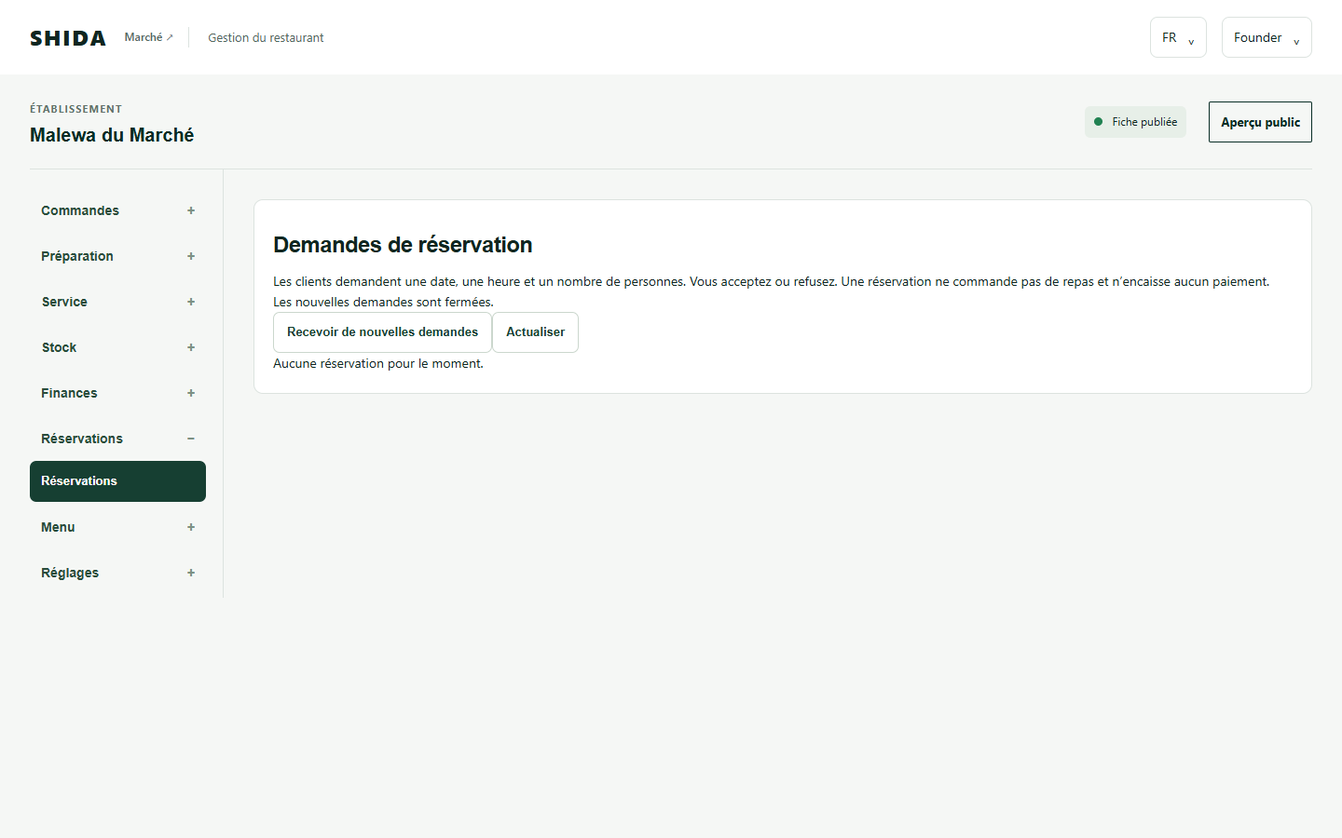
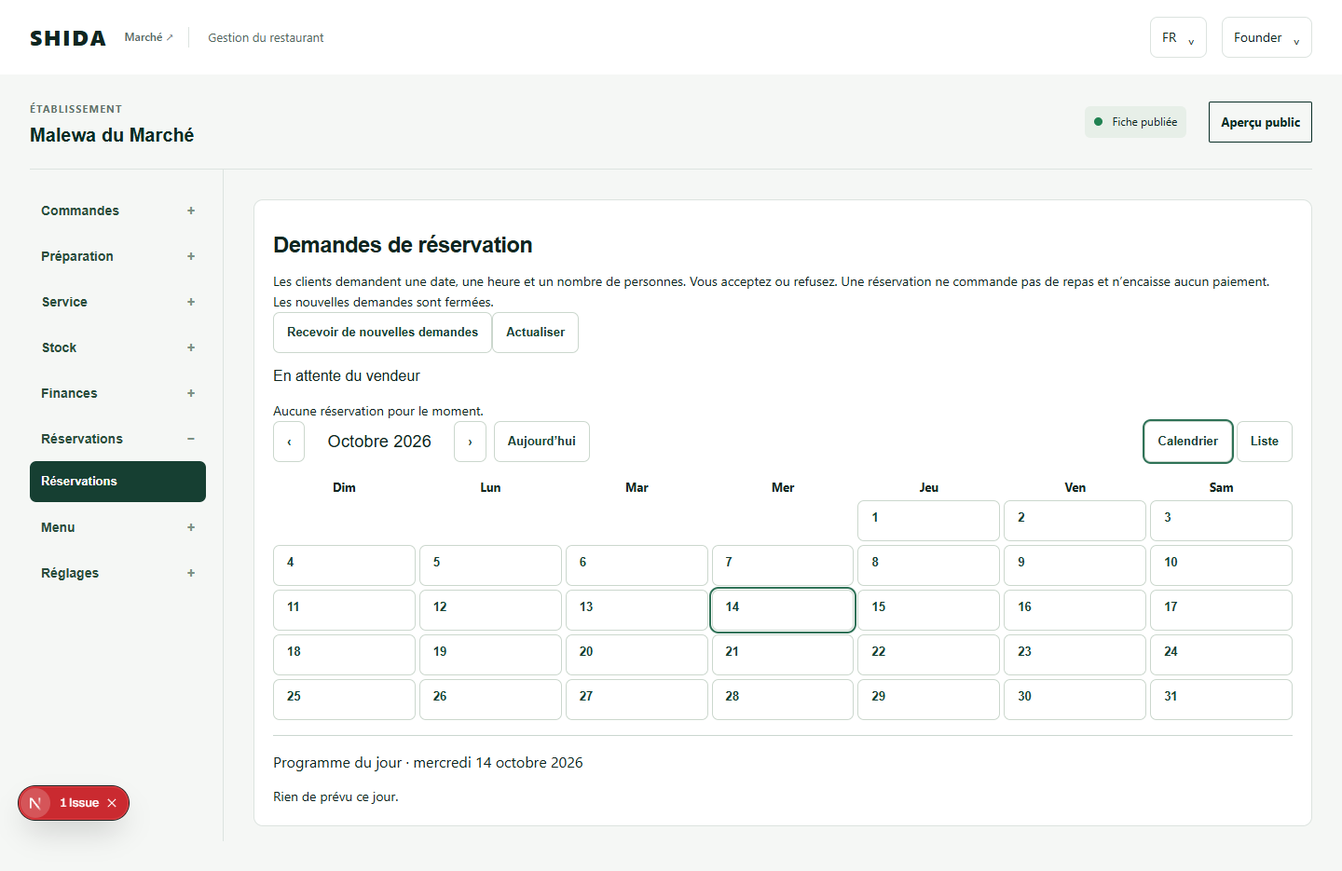
Add Restaurant calendar and improve customer date selection

diff --git a/app/components/shida/restaurant-customer-reservations.tsx b/app/components/shida/restaurant-customer-reservations.tsx
@@ -4,12 +4,17 @@ import { DashboardApiError, request } from "../../lib/restaurant-seller-browser"
 import { reservationCopy, type Reservation, type ReservationLocale } from "../../lib/restaurant-reservation-copy";
 import { restorePersonalSession, PERSONAL_SESSION_EVENT, type PersonalSession } from "../../lib/personal-session-browser";
 import { PersonalWhatsAppLogin } from "./personal-whatsapp-login";
+import {ShidaCalendar} from './shida-calendar';
+import {localCandidates} from './restaurant-local-time';
+import {reservationDateCopy} from '../../lib/restaurant-reservation-calendar-copy';
+import {localDate} from '../../lib/shida-calendar';
 import "./restaurant-checkout.css";
 
 export function RestaurantCustomerReservations({locale,establishmentRef,establishmentName,timezoneName,available}:{locale:ReservationLocale;establishmentRef?:string;establishmentName?:string;timezoneName?:string;available?:boolean}) {
   const t=reservationCopy[locale];
+  const d=reservationDateCopy[locale];
   const [session,setSession]=useState<PersonalSession|null>(null),[checked,setChecked]=useState(false),[items,setItems]=useState<Reservation[]>([]);
-  const [date,setDate]=useState(""),[size,setSize]=useState(2),[busy,setBusy]=useState(false),[message,setMessage]=useState("");
+  const [date,setDate]=useState(""),[time,setTime]=useState(""),[occurrence,setOccurrence]=useState(""),[month,setMonth]=useState(()=>new Date().toISOString().slice(0,7)),[size,setSize]=useState(2),[busy,setBusy]=useState(false),[message,setMessage]=useState("");
   const [page,setPage]=useState(1);
   const binding=useRef<string|null>(null),key=useRef('');
   const loadSession=useCallback(async()=>{try{const value=await restorePersonalSession();if(binding.current!==value.binding)setItems([]);binding.current=value.binding;setSession(value);}catch{binding.current=null;setItems([]);setSession(null);}finally{setChecked(true);}},[]);
@@ -17,10 +22,13 @@ export function RestaurantCustomerReservations({locale,establishmentRef,establis
   const load=useCallback(async()=>{if(!session)return;try{const result=await request(`personal/restaurant-reservations?page=${page}&page_size=20`,{},session.binding) as {items:Reservation[]};if(binding.current===session.binding)setItems(result.items);}catch{if(binding.current===session.binding)setMessage(t.retry);}},[session,t.retry,page]);
   useEffect(()=>{queueMicrotask(()=>void load());},[load]);
   const localTime=(item:Reservation)=>new Intl.DateTimeFormat(locale,{timeZone:item.timezone_name,dateStyle:'medium',timeStyle:'short'}).format(new Date(item.starts_at));
-  async function submit(event:FormEvent){event.preventDefault();if(!session||!establishmentRef||!available||busy)return;setBusy(true);setMessage("");try{
+  const candidates=date&&time&&timezoneName?localCandidates(`${date}T${time}`,timezoneName):[];
+  const chosen=candidates.length===1?candidates[0]:candidates.includes(occurrence)?occurrence:'';
+  const today=timezoneName?localDate(new Date().toISOString(),timezoneName):new Date().toISOString().slice(0,10);
+  async function submit(event:FormEvent){event.preventDefault();if(!session||!establishmentRef||!available||busy||!chosen)return;setBusy(true);setMessage("");try{
     key.current ||= crypto.randomUUID().replaceAll('-','');
-    await request(`personal/restaurant-reservations/establishments/${establishmentRef}`,{method:'POST',body:JSON.stringify({starts_at:date,party_size:size,operation_key:key.current})},session.binding);
-    key.current=crypto.randomUUID().replaceAll('-','');setDate("");setMessage(t.saved);await load();
+    await request(`personal/restaurant-reservations/establishments/${establishmentRef}`,{method:'POST',body:JSON.stringify({starts_at:chosen,party_size:size,operation_key:key.current})},session.binding);
+    key.current=crypto.randomUUID().replaceAll('-','');setDate("");setTime("");setOccurrence("");setMessage(t.saved);await load();
   }catch(error){setMessage(error instanceof DashboardApiError&&error.status===422?t.closed:t.retry);await load();}finally{setBusy(false);}}
   async function cancel(item:Reservation){if(!session||busy)return;setBusy(true);setMessage("");try{
     await request(`personal/restaurant-reservations/${item.reservation_ref}/cancel`,{method:'POST',body:JSON.stringify({expected_revision:item.revision,operation_key:crypto.randomUUID().replaceAll('-','')})},session.binding);
@@ -28,7 +36,7 @@ export function RestaurantCustomerReservations({locale,establishmentRef,establis
   }catch{setMessage(t.retry);await load();}finally{setBusy(false);}}
   return <main className="restaurant-public rst-checkout" lang={locale}><div className="container"><h1>{establishmentRef?`${establishmentName||t.reserve} · ${t.reserve}`:t.mine}</h1>
     {!checked?<p>{t.retry}</p>:!session?<><p>{t.login}</p><PersonalWhatsAppLogin locale={locale} onAuthenticated={()=>void loadSession()}/></>:<>
-      {establishmentRef&&<section><h2>{t.reserve}</h2>{available?<form onSubmit={event=>void submit(event)}><p>{t.noOrder}</p><p>{t.noCapacity}</p><label>{t.date} ({timezoneName})<input type="datetime-local" required value={date} onChange={event=>{setDate(event.target.value);key.current=crypto.randomUUID().replaceAll('-','');}}/></label><label>{t.size}<input type="number" min="1" max="30" required value={size} onChange={event=>{setSize(Number(event.target.value));key.current=crypto.randomUUID().replaceAll('-','');}}/></label><button type="submit" disabled={busy||!date}>{t.send}</button></form>:<p>{t.closed}</p>}</section>}
+      {establishmentRef&&<section><h2>{t.reserve}</h2>{available?<form onSubmit={event=>void submit(event)}><p>{d.guidance}</p><p>{t.noOrder}</p><p>{t.noCapacity}</p><ShidaCalendar locale={locale} timeZone={timezoneName||'UTC'} month={month} selected={date||today} events={[]} onMonthChange={setMonth} onSelect={value=>{setDate(value);setOccurrence('');key.current=crypto.randomUUID().replaceAll('-','');}} dateOnly/><label>{t.date} ({timezoneName})<input type="date" required value={date} onChange={event=>{setDate(event.target.value);setMonth(event.target.value.slice(0,7));setOccurrence('');key.current=crypto.randomUUID().replaceAll('-','');}}/></label><label>{d.time}<input type="time" required value={time} onChange={event=>{setTime(event.target.value);setOccurrence('');key.current=crypto.randomUUID().replaceAll('-','');}}/></label>{date&&time&&candidates.length===0&&<p role="alert">{d.invalid}</p>}{candidates.length>1&&<label>{d.ambiguous}<select required value={occurrence} onChange={event=>setOccurrence(event.target.value)}><option value=""></option>{candidates.map((candidate,index)=><option key={candidate} value={candidate}>{index===0?d.first:d.second}</option>)}</select></label>}<label>{t.size}<input type="number" min="1" max="30" required value={size} onChange={event=>{setSize(Number(event.target.value));key.current=crypto.randomUUID().replaceAll('-','');}}/></label><button type="submit" disabled={busy||!chosen}>{t.send}</button></form>:<p>{t.closed}</p>}</section>}
       <section><h2>{t.mine}</h2><button type="button" disabled={busy} onClick={()=>void load()}>{t.refresh}</button>{items.length?items.map(item=><article key={item.reservation_ref} className="rst-card"><h3>{item.establishment_name}</h3><p>{localTime(item)} · {item.timezone_name} · {item.party_size} {t.size}</p><p>{t[item.state]}</p>{['pending','accepted'].includes(item.state)&&<button type="button" disabled={busy} onClick={()=>void cancel(item)}>{t.cancel}</button>}</article>):<p>{t.noRows}</p>}<div className="rst-actions"><button type="button" disabled={busy||page<=1} onClick={()=>setPage(page-1)}>{t.previous}</button><span>{page}</span><button type="button" disabled={busy||items.length<20} onClick={()=>setPage(page+1)}>{t.next}</button></div></section>
     </>}{message&&<p role="status">{message}</p>}
   </div></main>;

diff --git a/app/components/shida/restaurant-reservation-calendar-seller.tsx b/app/components/shida/restaurant-reservation-calendar-seller.tsx
@@ -1,0 +1,48 @@
+"use client";
+import {useCallback,useEffect,useRef,useState} from 'react';
+import {request} from '../../lib/restaurant-seller-browser';
+import {reservationCopy,type Reservation,type ReservationLocale} from '../../lib/restaurant-reservation-copy';
+import {workflowText} from '../../lib/restaurant-workflow-copy';
+import {monthBounds,restaurantEvent} from '../../lib/shida-calendar';
+import {ShidaCalendar} from './shida-calendar';
+
+type Setting={enabled:boolean;revision:number;available:boolean};
+type Page={items:Reservation[];has_more:boolean;timezone_name:string};
+export function RestaurantReservationCalendarSeller({path,binding,locale}:{path:string;binding:string;locale:ReservationLocale}){
+  const t=reservationCopy[locale];
+  const [setting,setSetting]=useState<Setting|null>(null),[items,setItems]=useState<Reservation[]>([]),[pending,setPending]=useState<Reservation[]>([]);
+  const [busy,setBusy]=useState(false),[error,setError]=useState(''),[detail,setDetail]=useState<Reservation|null>(null);
+  const [zone,setZone]=useState('UTC'),[month,setMonth]=useState(()=>new Date().toISOString().slice(0,7));
+  const [selected,setSelected]=useState(()=>new Date().toISOString().slice(0,10));
+  const [page,setPage]=useState(1),[pendingPage,setPendingPage]=useState(1),[more,setMore]=useState(false),[morePending,setMorePending]=useState(false);
+  const [now,setNow]=useState(0);
+  const generation=useRef(0);
+  const load=useCallback(async()=>{const ticket=++generation.current;try{
+    const {from,to}=monthBounds(month);
+    const [current,listing,queue]=await Promise.all([
+      request(`${path}/reservations/setting`,{},binding) as Promise<Setting>,
+      request(`${path}/reservations/calendar?date_from=${from}&date_to=${to}&page=${page}&page_size=100`,{},binding) as Promise<Page>,
+      request(`${path}/reservations/pending?page=${pendingPage}&page_size=50`,{},binding) as Promise<Page>]);
+    if(ticket!==generation.current)return;
+    setSetting(current);setItems(previous=>page===1?listing.items:[...new Map([...previous,...listing.items].map(row=>[row.reservation_ref,row])).values()]);setPending(queue.items);setMore(listing.has_more);setMorePending(queue.has_more);
+    setZone(listing.timezone_name);setError('');
+  }catch{if(ticket===generation.current){setItems([]);setPending([]);setDetail(null);setSetting(null);setError(t.retry);}}},[path,binding,t.retry,month,page,pendingPage]);
+  useEffect(()=>{const currentGeneration=generation;queueMicrotask(()=>void load());const focus=()=>void load();window.addEventListener('focus',focus);const clock=window.setInterval(()=>setNow(Date.now()),60000);queueMicrotask(()=>setNow(Date.now()));return()=>{currentGeneration.current++;window.clearInterval(clock);window.removeEventListener('focus',focus);};},[load]);
+  async function open(ref:string){setBusy(true);setError('');try{const row=await request(`${path}/reservations/${ref}`,{},binding) as Reservation;setDetail(row);}catch{setDetail(null);setError(t.retry);await load();}finally{setBusy(false);}}
+  async function configure(){if(!setting||busy)return;setBusy(true);try{await request(`${path}/reservations/setting`,{method:'PUT',body:JSON.stringify({enabled:!setting.enabled,expected_revision:setting.revision,operation_key:crypto.randomUUID().replaceAll('-','')})},binding);await load();}catch{setError(t.retry);await load();}finally{setBusy(false);}}
+  async function act(row:Reservation,action:'accept'|'reject'|'cancel'|'arrive'|'complete'){if(busy)return;setBusy(true);try{await request(`${path}/reservations/${row.reservation_ref}/${action}`,{method:'POST',body:JSON.stringify({expected_revision:row.revision,operation_key:crypto.randomUUID().replaceAll('-','')})},binding);setPage(1);await load();await open(row.reservation_ref);}catch{setError(t.retry);setPage(1);await load();await open(row.reservation_ref);}finally{setBusy(false);}}
+  const events=items.map(row=>restaurantEvent(row,t[row.state],t.size));
+  const time=(row:Reservation)=>new Intl.DateTimeFormat(locale,{timeZone:row.timezone_name,dateStyle:'medium',timeStyle:'short'}).format(new Date(row.starts_at));
+  return <section className="rst-card" lang={locale}><h2>{t.requests}</h2><p>{workflowText(locale,'reservationsIntro')}</p>
+    {setting&&<><p role="status">{workflowText(locale,setting.enabled?'requestsOn':'requestsOff')}</p>{!setting.available&&<p>{workflowText(locale,'reservationPrerequisites')}</p>}<button type="button" disabled={busy||!setting.enabled&&!setting.available} onClick={()=>void configure()}>{workflowText(locale,setting.enabled?'stopRequests':'receiveRequests')}</button></>}
+    <button type="button" disabled={busy} onClick={()=>void load()}>{t.refresh}</button>{error&&<p role="alert">{error}</p>}
+    <section aria-label={t.pending}><h3>{t.pending}</h3>{pending.length?<div className="rst-actions">{pending.map(row=><button type="button" key={row.reservation_ref} onClick={()=>void open(row.reservation_ref)}>{time(row)} · {row.party_size} {t.size} · {t.pending}</button>)}</div>:<p>{t.noRows}</p>}{morePending&&<button type="button" onClick={()=>setPendingPage(value=>value+1)}>{t.next}</button>}{pendingPage>1&&<button type="button" onClick={()=>setPendingPage(value=>value-1)}>{t.previous}</button>}</section>
+    <ShidaCalendar locale={locale} timeZone={zone} month={month} selected={selected} events={events} onMonthChange={value=>{setMonth(value);setPage(1);setItems([]);setSelected(`${value}-01`);setDetail(null);}} onSelect={setSelected} onOpen={event=>void open(event.destination.reference)} hasMore={more} onMore={()=>setPage(value=>value+1)}/>
+    {detail&&<article className="rst-card" aria-label={t.requests}><h3>{time(detail)} · {detail.timezone_name}</h3><p>{detail.party_size} {t.size} · {t[detail.state]}</p><p>{t.overlap}: {detail.overlapping_requests??0}</p><div className="rst-actions">
+      {detail.state==='pending'&&now<Date.parse(detail.response_deadline)&&<><button type="button" disabled={busy} onClick={()=>void act(detail,'accept')}>{workflowText(locale,'acceptRequest')}</button><button type="button" disabled={busy} onClick={()=>void act(detail,'reject')}>{t.reject}</button></>}
+      {['pending','accepted'].includes(detail.state)&&<button type="button" disabled={busy} onClick={()=>void act(detail,'cancel')}>{t.cancel}</button>}
+      {detail.state==='accepted'&&now>=Date.parse(detail.starts_at)-1800000&&<button type="button" disabled={busy} onClick={()=>void act(detail,'arrive')}>{t.arrive}</button>}
+      {detail.state==='arrived'&&now>=Date.parse(detail.starts_at)-1800000&&<button type="button" disabled={busy} onClick={()=>void act(detail,'complete')}>{t.complete}</button>}
+    </div></article>}
+  </section>;
+}

diff --git a/tests/browser/restaurant-reservation-actual.browser.ts b/tests/browser/restaurant-reservation-actual.browser.ts
@@ -3,7 +3,7 @@ import {test,expect,request} from '@playwright/test';
 test.skip(process.env.RESTAURANT_RESERVATION_BACKEND !== '1', 'Requires isolated real Backend reservation fixture');
 
 test('real Backend: customer, Personal seller and Organization seller reservations',async({browser})=>{
-  test.setTimeout(120000);
+  test.setTimeout(90000);
   const api=await request.newContext({baseURL:'https://127.0.0.1:3443',ignoreHTTPSErrors:true});
   const seed=await api.post('/__reservation/seed');
   expect(seed.ok(),await seed.text()).toBeTruthy();
@@ -16,12 +16,16 @@ test('real Backend: customer, Personal seller and Organization seller reservatio
   const customer=await browser.newContext({baseURL:'https://localhost:3014',ignoreHTTPSErrors:true});
   await customer.addCookies([{name:'nihiloba_personal_session',value:await session('buyer'),domain:'localhost',path:'/api/shida',httpOnly:true,sameSite:'Lax',secure:true}]);
   const buyer=await customer.newPage();
+  await buyer.setViewportSize({width:390,height:844});
   await buyer.goto(`/shida/restaurants/${data.personal}`);
   await expect(buyer.getByRole('link',{name:'Request a reservation'})).toHaveAttribute('href',new RegExp(`establishment=${data.personal}`));
   await buyer.goto(`/shida/restaurant-reservations?establishment=${data.personal}`);
   await expect(buyer.getByRole('heading',{name:'Request a reservation',exact:true})).toBeVisible();
-  await buyer.getByLabel(/Local date and time/).fill(data.date);
+  await buyer.getByLabel(/Local date and time/).fill(data.date.slice(0,10));
+  await buyer.getByLabel('Requested time').fill(data.date.slice(11));
   await buyer.getByLabel('Guests').fill('3');
+  await buyer.evaluate(()=>window.scrollTo(0,0));
+  await buyer.screenshot({path:'docs/evidence/calendar-customer-390.png',fullPage:true});
   await buyer.getByRole('button',{name:'Send request'}).click();
   await expect(buyer.getByText('Request recorded. The seller must still accept it.')).toBeVisible();
   await expect(buyer.getByText('Awaiting seller response').first()).toBeVisible();
@@ -30,10 +34,12 @@ test('real Backend: customer, Personal seller and Organization seller reservatio
   await personal.addCookies([{name:'nihiloba_personal_session',value:await session('owner'),domain:'localhost',path:'/api/shida',httpOnly:true,sameSite:'Lax',secure:true}]);
   const owner=await personal.newPage();
   await owner.goto('/shida/seller/restaurants');
-  await owner.locator('.rst-grid .rst-card').filter({hasText:data.personal_name}).getByRole('button',{name:'Edit',exact:true}).click();
-  await owner.getByRole('button',{name:'Reservation requests'}).click();
-  await expect(owner.getByRole('button',{name:'Accept',exact:true})).toBeVisible();
-  await owner.getByRole('button',{name:'Accept',exact:true}).click();
+  await expect(owner.locator('.rst-management-identity').getByRole('heading',{name:data.personal_name})).toBeVisible();
+  await owner.locator('.rst-nav-group').filter({hasText:'Reservations'}).locator('summary').click();
+  await owner.getByRole('button',{name:'Reservations',exact:true}).click();
+  await owner.getByRole('region',{name:'Awaiting seller response'}).getByRole('button').first().click();
+  await expect(owner.getByRole('button',{name:'Accept this request'})).toBeVisible();
+  await owner.getByRole('button',{name:'Accept this request'}).click();
   await expect(owner.getByText(/Guests.*Accepted/)).toBeVisible();
   await buyer.getByRole('button',{name:'Refresh'}).click();
   await expect(buyer.getByText('Accepted',{exact:true}).first()).toBeVisible();
@@ -43,7 +49,8 @@ test('real Backend: customer, Personal seller and Organization seller reservatio
   }
 
   await buyer.goto(`/shida/restaurant-reservations?establishment=${data.organization}`);
-  await buyer.getByLabel(/Local date and time/).fill(data.date);
+  await buyer.getByLabel(/Local date and time/).fill(data.date.slice(0,10));
+  await buyer.getByLabel('Requested time').fill(data.date.slice(11));
   await buyer.getByLabel('Guests').fill('4');
   await buyer.getByRole('button',{name:'Send request'}).click();
   await expect(buyer.getByText('Request recorded. The seller must still accept it.')).toBeVisible();
@@ -53,10 +60,12 @@ test('real Backend: customer, Personal seller and Organization seller reservatio
   await business.addInitScript(()=>localStorage.setItem('shida-language','en'));
   const manager=await business.newPage();
   await manager.goto(`/businesses/${data.business}/restaurants`);
-  await manager.locator('.rst-grid .rst-card').filter({hasText:data.organization_name}).getByRole('button',{name:'Edit',exact:true}).click();
-  await manager.getByRole('button',{name:'Reservation requests'}).click();
-  await expect(manager.getByRole('button',{name:'Accept',exact:true})).toBeVisible();
-  await manager.getByRole('button',{name:'Accept',exact:true}).click();
+  await expect(manager.getByRole('heading',{name:data.organization_name})).toBeVisible();
+  await manager.locator('.rst-nav-group').filter({hasText:'Reservations'}).locator('summary').click();
+  await manager.getByRole('button',{name:'Reservations',exact:true}).click();
+  await manager.getByRole('region',{name:'Awaiting seller response'}).getByRole('button').first().click();
+  await expect(manager.getByRole('button',{name:'Accept this request'})).toBeVisible();
+  await manager.getByRole('button',{name:'Accept this request'}).click();
   await expect(manager.getByText(/Guests.*Accepted/)).toBeVisible();
   await buyer.getByRole('button',{name:'Refresh'}).click();
   await expect(buyer.getByText('Accepted',{exact:true}).first()).toBeVisible();

diff --git a/app/components/shida/shida-calendar.tsx b/app/components/shida/shida-calendar.tsx
@@ -1,0 +1,47 @@
+"use client";
+import {useRef, useState, type KeyboardEvent} from 'react';
+import {calendarCopy, localDate, monthBounds, shiftMonth, type CalendarEvent, type CalendarLocale} from '../../lib/shida-calendar';
+import './shida-calendar.css';
+import './shida-calendar-mobile.css';
+
+type Props={locale:CalendarLocale;timeZone:string;month:string;selected:string;events:CalendarEvent[];
+  onMonthChange:(month:string)=>void;onSelect:(date:string)=>void;onOpen?:(event:CalendarEvent)=>void;
+  hasMore?:boolean;onMore?:()=>void;dateOnly?:boolean};
+
+export function ShidaCalendar({locale,timeZone,month,selected,events,onMonthChange,onSelect,onOpen,hasMore,onMore,dateOnly=false}:Props){
+  const t=calendarCopy[locale], [view,setView]=useState<'calendar'|'list'>('calendar');
+  const buttons=useRef<HTMLDivElement>(null);
+  const {from,to}=monthBounds(month), count=Math.round((Date.parse(to+'T00:00:00Z')-Date.parse(from+'T00:00:00Z'))/86400000);
+  const firstDay=new Date(from+'T00:00:00Z').getUTCDay();
+  const today=localDate(new Date().toISOString(),timeZone);
+  const monthTitle=new Intl.DateTimeFormat(locale==='ln'?'fr':locale,{month:'long',year:'numeric',timeZone:'UTC'}).format(new Date(from+'T12:00:00Z'));
+  const dayEvents=(day:string)=>events.filter(event=>localDate(event.startsAt,timeZone)===day);
+  const format=(event:CalendarEvent)=>new Intl.DateTimeFormat(locale==='ln'?'fr':locale,{timeZone:event.timeZone,hour:'2-digit',minute:'2-digit'}).format(new Date(event.startsAt));
+  function choose(day:string){if(day.slice(0,7)!==month)onMonthChange(day.slice(0,7));onSelect(day);}
+  function arrows(event:KeyboardEvent<HTMLButtonElement>,day:string){
+    const movement:{[key:string]:number}={ArrowLeft:-1,ArrowRight:1,ArrowUp:-7,ArrowDown:7};
+    if(!(event.key in movement))return;
+    event.preventDefault();const next=new Date(Date.parse(day+'T12:00:00Z')+movement[event.key]*86400000).toISOString().slice(0,10);
+    choose(next);requestAnimationFrame(()=>buttons.current?.querySelector<HTMLButtonElement>(`[data-day="${next}"]`)?.focus());
+  }
+  function entries(rows:CalendarEvent[]){return rows.map(event=><li key={`${event.marketplace}:${event.reference}`} className={`shida-cal-event shida-cal-${event.tone}`}>
+    <span className="shida-cal-time">{format(event)} <span>{event.timeZone}</span></span>
+    <strong>{event.title}</strong><span className="shida-cal-status">{event.status}</span>
+    {onOpen&&<button type="button" onClick={()=>onOpen(event)}>{t.open}</button>}
+  </li>);}
+  return <section className="shida-calendar" lang={locale} aria-label={t.calendar}>
+    <div className="shida-cal-toolbar"><button type="button" onClick={()=>onMonthChange(shiftMonth(month,-1))} aria-label={t.previous}>‹</button>
+      <h3 aria-live="polite">{monthTitle}</h3><button type="button" onClick={()=>onMonthChange(shiftMonth(month,1))} aria-label={t.next}>›</button>
+      <button type="button" onClick={()=>choose(today)}>{t.today}</button>
+      {!dateOnly&&<div className="shida-cal-view"><button type="button" aria-pressed={view==='calendar'} onClick={()=>setView('calendar')}>{t.calendar}</button><button type="button" aria-pressed={view==='list'} onClick={()=>setView('list')}>{t.list}</button></div>}
+    </div>
+    {view==='calendar'||dateOnly?<div className="shida-cal-grid" ref={buttons} role="group" aria-label={monthTitle}>
+      {t.weekdays.map((label,index)=><span className="shida-cal-weekday" key={index}>{label}</span>)}
+      {Array.from({length:firstDay},(_,index)=><span key={`blank-${index}`} aria-hidden="true"/>)}
+      {Array.from({length:count},(_,index)=>{const day=new Date(Date.parse(from+'T12:00:00Z')+index*86400000).toISOString().slice(0,10), matches=dayEvents(day);
+        return <button type="button" key={day} data-day={day} className="shida-cal-day" aria-pressed={selected===day} aria-label={`${new Intl.DateTimeFormat(locale==='ln'?'fr':locale,{dateStyle:'full',timeZone:'UTC'}).format(new Date(day+'T12:00:00Z'))}${matches.length?`, ${matches.length}`:''}`} onClick={()=>choose(day)} onKeyDown={event=>arrows(event,day)}><span>{index+1}</span>{!dateOnly&&matches.length>0&&<small>{matches.length}<span className="shida-cal-dot"/></small>}</button>})}
+    </div>:<ol className="shida-cal-list">{entries(events.filter(event=>{const day=localDate(event.startsAt,timeZone);return day>=from&&day<to;}).sort((a,b)=>a.startsAt.localeCompare(b.startsAt)))}</ol>}
+    {!dateOnly&&<div className="shida-cal-agenda"><h4>{t.agenda} · {new Intl.DateTimeFormat(locale==='ln'?'fr':locale,{dateStyle:'full',timeZone:'UTC'}).format(new Date(selected+'T12:00:00Z'))}</h4>{dayEvents(selected).length?<ol className="shida-cal-list">{entries(dayEvents(selected).sort((a,b)=>a.startsAt.localeCompare(b.startsAt)))}</ol>:<p>{t.empty}</p>}</div>}
+    {!dateOnly&&hasMore&&onMore&&<button type="button" onClick={onMore}>{t.more}</button>}
+  </section>;
+}

diff --git a/tests/browser/restaurant-workflow.browser.ts b/tests/browser/restaurant-workflow.browser.ts
@@ -2,6 +2,7 @@ import {test,expect,type Page} from '@playwright/test';
 import {managementNavigation} from './restaurant-management-navigation';
 
 const stamp='2026-10-13T08:00:00+00:00';
+const reservation={reservation_ref:'RRS_1',establishment_ref:'RST_WORKFLOW',establishment_name:'Malewa du Marché',state:'pending',revision:1,starts_at:'2030-10-14T18:00:00+01:00',timezone_name:'Africa/Kinshasa',party_size:3,response_deadline:'2030-10-14T12:00:00+01:00',overlapping_requests:0};
 const establishment={public_ref:'RST_WORKFLOW',revision:stamp,status:'active',menu_currency:'CDF',location_confirmed:true,missing_publication_fields:[],actions:['read','edit','menu','hours','preview','links'],profile:{name:'Malewa du Marché',food_business_type:'malewa',city:'Kinshasa',commune:'Limete',timezone_name:'Africa/Kinshasa'}};
 const food=[{public_ref:'FOOD_1',name:'Fufu et pondu',presentation:'fixed_dish',pricing_model:'UNIT_PRICED',currency:'CDF',unit_price:'3000',sale_unit_label:'assiette',availability:'available',visible:true},{public_ref:'DRINK_1',name:'Jus de mangue sans alcool',presentation:'fixed_dish',pricing_model:'UNIT_PRICED',currency:'USD',unit_price:'2.50',sale_unit_label:'verre',availability:'available',visible:true}];
 const order=(ref:string,state:string)=>({order_ref:ref,revision:1,state,entry_source:'customer',fulfillment_method:'pickup',submitted_at:stamp,cancellation_pending:false,order_total:'3000',currency:'CDF',food_preview:{},receipt_terms:null});
@@ -39,6 +40,9 @@ async function seed(page:Page,intake:boolean,empty=false,rich=false){
   if(p.endsWith('/orders')){const states=url.searchParams.getAll('states');const items=empty?[]:states.includes('pending')?[order('ORD_PENDING','pending')]:states.includes('accepted')?[order('ORD_ACCEPTED','accepted')]:[];return json({items,total:items.length,as_of:stamp});}
   if(p.endsWith('/menu/items'))return json({revision:stamp,currency:'CDF',result:{items:empty?[]:food,total:empty?0:food.length,page:1,page_size:20}});
   if(p.endsWith('/reservations/setting'))return json({enabled:intake,revision:1,available:true});
+  if(p.endsWith('/reservations/calendar'))return json({items:[],has_more:false,timezone_name:'Africa/Kinshasa'});
+  if(p.endsWith('/reservations/pending'))return json({items:empty?[]:[reservation],has_more:false,timezone_name:'Africa/Kinshasa'});
+  if(p.endsWith('/reservations/RRS_1'))return json(reservation);
   if(p.endsWith('/reservations'))return json({items:empty?[]:[{reservation_ref:'RSV_1',establishment_ref:establishment.public_ref,establishment_name:establishment.profile.name,state:'pending',revision:1,starts_at:'2026-10-14T18:00:00+01:00',timezone_name:'Africa/Kinshasa',party_size:3,response_deadline:'2026-10-14T12:00:00+01:00',overlapping_requests:0}]});
   if(p.endsWith('/order-summary'))return json({as_of:stamp,coverage_from:null,coverage_to:null,measurement_status:'unavailable',metrics:null});
   if(rich&&p.endsWith('/counter-baskets/BSK_1/quote'))return json({basket:{basket_ref:'BSK_1',revision:2,quote:counterTerms,quote_ref:'RQU_1',order_ref:null}});
@@ -59,7 +63,7 @@ for(const width of [360,820,1440])test(`seller workflow FR ${width}`,async({page
  await page.getByRole('button',{name:'Ajouter',exact:true}).first().click();await expect(page.getByText('CDF: 3000.00')).toBeVisible();
  await expect(page.locator('.rst-work').getByRole('button',{name:'Suivant'})).toHaveCount(0);
  await page.screenshot({path:`docs/evidence/workflow-counter-${width}.png`,fullPage:true});
- await managementNavigation(page,'Réservations');await expect(page.getByRole('button',{name:'Accepter cette demande'})).toBeVisible();
+ await managementNavigation(page,'Réservations');await page.getByRole('region',{name:'En attente du vendeur'}).getByRole('button').first().click();await expect(page.getByRole('button',{name:'Accepter cette demande'})).toBeVisible();
  await page.screenshot({path:`docs/evidence/workflow-reservations-${width}.png`,fullPage:true});
  expect(await page.evaluate(()=>document.documentElement.scrollWidth<=innerWidth)).toBe(true);
 });
@@ -81,7 +85,7 @@ for(const width of [360,820,1440])test(`closed intake and empty states ${width}`
  await expect(page.getByRole('textbox',{name:'Du'})).toHaveCount(0);
  await page.screenshot({path:`docs/evidence/workflow-empty-statistics-${width}.png`,fullPage:true});
  await managementNavigation(page,'Réservations');await expect(page.getByText('Les nouvelles demandes sont fermées.')).toBeVisible();
- await expect(page.getByRole('button',{name:'Suivant'})).toHaveCount(0);
+ await expect(page.getByRole('region',{name:'En attente du vendeur'}).getByRole('button',{name:'Suivant'})).toHaveCount(0);
  await page.screenshot({path:`docs/evidence/workflow-empty-reservations-${width}.png`,fullPage:true});
 });
 

diff --git a/app/lib/shida-calendar.ts b/app/lib/shida-calendar.ts
@@ -1,0 +1,60 @@
+export type CalendarMarketplace = 'restaurants' | 'services' | 'apartments';
+export type CalendarStatusTone = 'pending' | 'confirmed' | 'muted';
+
+/** Presentation only. The module adapter owns authorization, capacity and actions. */
+export type CalendarEvent = {
+  marketplace: CalendarMarketplace;
+  reference: string;
+  startsAt: string;
+  endsAt?: string;
+  timeZone: string;
+  title: string;
+  status: string;
+  tone: CalendarStatusTone;
+  destination: {kind: 'detail'; reference: string};
+};
+
+export type CalendarLocale = 'fr' | 'en' | 'ln' | 'sw';
+/** A marketplace can mount only after its protected, exact-scope range read exists. */
+export type CalendarSource<Scope> = {
+  marketplace: CalendarMarketplace;
+  readRange: (scope:Scope, from:string, to:string, page:number)=>Promise<{events:CalendarEvent[];hasMore:boolean}>;
+};
+export type ProtectedCalendarProjection = Pick<CalendarEvent,'reference'|'startsAt'|'endsAt'|'timeZone'|'title'|'status'|'tone'>;
+export function servicesEvent(row:ProtectedCalendarProjection):CalendarEvent {
+  return {marketplace:'services',...row,destination:{kind:'detail',reference:row.reference}};
+}
+export function apartmentVisitEvent(row:ProtectedCalendarProjection):CalendarEvent {
+  return {marketplace:'apartments',...row,destination:{kind:'detail',reference:row.reference}};
+}
+export const calendarCopy = {
+  en: {calendar:'Calendar', list:'List', previous:'Previous month', next:'Next month', today:'Today', agenda:'Day agenda', empty:'Nothing scheduled for this day.', open:'Open', pending:'Pending requests', more:'More', weekdays:['Sun','Mon','Tue','Wed','Thu','Fri','Sat']},
+  fr: {calendar:'Calendrier', list:'Liste', previous:'Mois précédent', next:'Mois suivant', today:'Aujourd’hui', agenda:'Programme du jour', empty:'Rien de prévu ce jour.', open:'Ouvrir', pending:'Demandes en attente', more:'Plus', weekdays:['Dim','Lun','Mar','Mer','Jeu','Ven','Sam']},
+  ln: {calendar:'Manaka', list:'Liste', previous:'Sanza eleki', next:'Sanza ekoya', today:'Lelo', agenda:'Makambo ya mokolo', empty:'Likambo moko te na mokolo oyo.', open:'Fungola', pending:'Bosengi ezali kozela', more:'Mosusu', weekdays:['Lom','Mwa','Mis','Min','Mit','Mos','Eye']},
+  sw: {calendar:'Kalenda', list:'Orodha', previous:'Mwezi uliopita', next:'Mwezi ujao', today:'Leo', agenda:'Ratiba ya siku', empty:'Hakuna tukio siku hii.', open:'Fungua', pending:'Maombi yanayosubiri', more:'Zaidi', weekdays:['Jum','Jtt','Jnn','Jtn','Ali','Iju','Jmo']},
+} as const;
+
+export function localDate(instant:string, timeZone:string):string {
+  const parts=new Intl.DateTimeFormat('en-US',{timeZone,year:'numeric',month:'2-digit',day:'2-digit'}).formatToParts(new Date(instant));
+  const get=(key:string)=>parts.find(part=>part.type===key)?.value??'';
+  return `${get('year')}-${get('month')}-${get('day')}`;
+}
+export function monthBounds(month:string):{from:string;to:string} {
+  const [year,number]=month.split('-').map(Number);
+  const from=`${year}-${String(number).padStart(2,'0')}-01`;
+  const end=new Date(Date.UTC(year,number,1));
+  return {from,to:`${end.getUTCFullYear()}-${String(end.getUTCMonth()+1).padStart(2,'0')}-01`};
+}
+export function shiftMonth(month:string, amount:number):string {
+  const [year,number]=month.split('-').map(Number);
+  const next=new Date(Date.UTC(year,number-1+amount,1));
+  return `${next.getUTCFullYear()}-${String(next.getUTCMonth()+1).padStart(2,'0')}`;
+}
+
+export function restaurantEvent(row:{reservation_ref:string;starts_at:string;timezone_name:string;party_size:number;state:string},
+    status:string, guests:string):CalendarEvent {
+  return {marketplace:'restaurants',reference:row.reservation_ref,startsAt:row.starts_at,
+    timeZone:row.timezone_name,title:`${row.party_size} ${guests}`,status,
+    tone:row.state==='pending'?'pending':row.state==='accepted'||row.state==='arrived'?'confirmed':'muted',
+    destination:{kind:'detail',reference:row.reservation_ref}};
+}

diff --git a/app/components/shida/restaurant-seller-workspace.tsx b/app/components/shida/restaurant-seller-workspace.tsx
@@ -16,7 +16,7 @@ import { basicText } from "@/app/lib/restaurant-basic-copy";
 import { localInstant, performRestaurant as perform, pricing, readRestaurant as read, rootPath, type Closure, type Envelope, type Establishment, type Fields, type Hours, type Kind, type Operation, type Page, type Row, type Window } from "@/app/lib/restaurant-seller";
 import "./restaurant-seller.css";
 import { RestaurantOrderScreen } from './restaurant-order-screen';
-import { RestaurantReservationSeller } from './restaurant-reservation-seller';
+import { RestaurantReservationCalendarSeller } from './restaurant-reservation-calendar-seller';
 import {PreparationRouting} from './restaurant-preparation-routing';
 import { RestaurantKitchen } from './restaurant-kitchen';
 import { RestaurantSellerReviews } from './restaurant-seller-reviews';
@@ -300,7 +300,7 @@ export function RestaurantWorkspace({ binding, locale }: { binding: string; loca
         {["items", "categories"].includes(tab) && <div className="rst-menu-heading"><h2>{design.menuTitle}</h2><div className="rst-actions"><button type="button" className="rst-text-button" disabled={busy} onClick={() => void run(() => open(tab as Kind))}>+ {design.add}</button>{button("categories", () => void run(() => loadTab(tab === "categories" ? "items" : "categories")))}<button type="button" disabled={busy} onClick={()=>void run(()=>loadTab("batch"))}>{photoText(locale,"batch")}</button></div></div>}
         {tab === 'photos' && <RestaurantPhotoEditor key={`${path}:${photoTarget.target}:${photoTarget.itemRef ?? ''}`} path={path} binding={binding} locale={locale} establishmentName={selected.profile.name || t('restaurants')} {...photoTarget} onFailure={workFailure} onBack={() => void run(() => loadTab(photoTarget.target === 'establishment' ? 'profile' : 'items'))}/>}
         {tab === 'orders'  && <RestaurantOrderScreen key={path} path={path} binding={binding} locale={locale} timezone={selected.profile.timezone_name} onFailure={workFailure} onIntake={selected.actions.includes('edit')?()=>setTab('intake'):undefined}/>}
-        {tab === 'reservations' && <RestaurantReservationSeller path={path} binding={binding} locale={locale}/>}
+        {tab === 'reservations' && <RestaurantReservationCalendarSeller key={`${path}:${binding}`} path={path} binding={binding} locale={locale}/>}
         {tab === 'routing' && <PreparationRouting path={path} binding={binding} locale={locale}/>}
         {tab === 'kitchen' && <RestaurantKitchen key={path} path={path} binding={binding} locale={locale} onFreeOrders={()=>setTab('orders')}/>}
         {tab === 'reviews' && <RestaurantSellerReviews key={path} path={path} binding={binding} locale={locale}/>}

diff --git a/app/components/shida/shida-calendar.css b/app/components/shida/shida-calendar.css
@@ -1,0 +1,1 @@
+.shida-calendar{max-width:100%;min-width:0;display:grid;gap:1rem}.shida-cal-toolbar{display:flex;align-items:center;gap:.5rem;flex-wrap:wrap}.shida-cal-toolbar h3{margin:0;font-size:1.15rem;min-width:9rem;text-align:center;text-transform:capitalize}.shida-cal-toolbar button,.shida-cal-event button,.shida-calendar>button{min-height:2.75rem;padding:.45rem .8rem;border:1px solid currentColor;border-radius:.5rem;background:transparent;color:inherit;cursor:pointer}.shida-cal-view{display:flex;gap:.3rem;margin-inline-start:auto}.shida-cal-view [aria-pressed=true]{background:#174d40;color:white}.shida-cal-grid{display:grid;grid-template-columns:repeat(7,minmax(0,1fr));gap:.25rem}.shida-cal-weekday{text-align:center;font-size:.8rem;font-weight:700;overflow:hidden}.shida-cal-day{min-width:0;min-height:3.25rem;display:flex;flex-direction:column;align-items:flex-start;justify-content:space-between;padding:.35rem;border:1px solid #b8c9c2;border-radius:.45rem;background:#fff;color:#172b25;cursor:pointer}.shida-cal-day:hover{background:#e8f3ee}.shida-cal-day[aria-pressed=true]{outline:2px solid #17624d;outline-offset:1px;background:#e4f1ea}.shida-cal-day:focus-visible,.shida-calendar button:focus-visible{outline:3px solid #c45e12;outline-offset:2px}.shida-cal-day small{font-weight:700;display:flex;align-items:center;gap:.2rem}.shida-cal-dot{width:.45rem;height:.45rem;background:#b85d23;border-radius:50%}.shida-cal-agenda{border-top:1px solid #cbd6d0;padding-top:.75rem}.shida-cal-agenda h4{margin:.2rem 0 .75rem}.shida-cal-list{list-style:none;padding:0;margin:0;display:grid;gap:.5rem}.shida-cal-event{display:flex;align-items:center;gap:.7rem;flex-wrap:wrap;padding:.7rem;border-inline-start:4px solid #7b8c88;background:#f5f7f6;border-radius:.35rem}.shida-cal-pending{border-inline-start-color:#ad5515;background:#fff4e8}.shida-cal-confirmed{border-inline-start-color:#126845;background:#eaf6ef}.shida-cal-event strong{flex:1;min-width:8rem}.shida-cal-time{font-variant-numeric:tabular-nums}.shida-cal-time span{font-size:.75rem}.shida-cal-status{font-weight:700}.shida-cal-event button{margin-inline-start:auto}@media(max-width:600px){.shida-cal-toolbar h3{min-width:0;flex:1}.shida-cal-view{width:100%;margin:0}.shida-cal-view button{flex:1}.shida-cal-day{min-height:2.9rem;padding:.25rem}.shida-cal-weekday{font-size:.68rem}.shida-cal-event{align-items:flex-start}.shida-cal-event button{width:100%}}@media(min-width:601px) and (max-width:1000px){.shida-cal-day{min-height:4rem}}@media(min-width:1001px){.shida-cal-day{min-height:4.8rem}}

diff --git a/app/lib/restaurant-seller-contract.ts b/app/lib/restaurant-seller-contract.ts
@@ -5,6 +5,7 @@ import {dailyRoutes,isDailyPath,validDailyBody,validDailyQuery} from './restaura
 // Exact Personal seller surface, not a general Dashboard proxy.
 export const sellerRoutes: [RegExp, readonly string[]][] = [
   [/^RST_[A-Za-z0-9_-]+\/reservations$/, ["GET"]],
+  [/^RST_[A-Za-z0-9_-]+\/reservations\/(calendar|pending)$/, ["GET"]],
   [/^RST_[A-Za-z0-9_-]+\/reservations\/setting$/, ["GET", "PUT"]],
   [/^RST_[A-Za-z0-9_-]+\/reservations\/RRS_[A-Za-z0-9_-]+$/, ["GET"]],
   [/^RST_[A-Za-z0-9_-]+\/reservations\/RRS_[A-Za-z0-9_-]+\/(accept|reject|cancel|arrive|complete)$/, ["POST"]],
@@ -76,7 +77,11 @@ export function allowedSellerRoute(path: string, method: string): boolean {
 }
 export function validSellerQuery(path: string, method: string, query: URLSearchParams): boolean {
   if (isPhotoPath(path)) return validPhotoQuery(path, query);
-  if (path.includes('/reservations')) return [...query].every(([key,value]) => path.endsWith('/reservations') && ['page','page_size'].includes(key) && query.getAll(key).length===1 && /^[1-9]\d{0,3}$/.test(value) && (key!=='page_size'||Number(value)<=50));
+  if (path.includes('/reservations')) {
+    const calendar=path.endsWith('/reservations/calendar'),pending=path.endsWith('/reservations/pending');
+    if(calendar && (!/^\d{4}-\d{2}-\d{2}$/.test(query.get('date_from')||'')||!/^\d{4}-\d{2}-\d{2}$/.test(query.get('date_to')||'')))return false;
+    return [...query].every(([key,value]) => (path.endsWith('/reservations')||calendar||pending) && (calendar?['date_from','date_to','page','page_size']:['page','page_size']).includes(key) && query.getAll(key).length===1 && (key==='date_from'||key==='date_to'?/^\d{4}-\d{2}-\d{2}$/.test(value):/^[1-9]\d{0,3}$/.test(value) && (key!=='page_size'||Number(value)<=(calendar?100:pending?100:50))));
+  }
   if (isDailyPath(path)) return validDailyQuery(path,method,query);
   if (isServicePath(path)) return validServiceQuery(path,method,query);
   if (isOrderPath(path)) return validOrderQuery(path, method, query);

diff --git a/app/lib/restaurant-reservation-calendar-copy.ts b/app/lib/restaurant-reservation-calendar-copy.ts
@@ -1,0 +1,6 @@
+export const reservationDateCopy={
+  en:{time:'Requested time', guidance:'Choose the restaurant’s local date and time. The seller must confirm your request. Times shown are requests, not guaranteed availability. Requests must be more than two hours ahead and within 90 days.', invalid:'This local time does not exist. Choose another time.', ambiguous:'This local time occurs twice. Choose which occurrence.', first:'First occurrence', second:'Second occurrence'},
+  fr:{time:'Heure souhaitée',guidance:'Choisissez la date et l’heure locales du restaurant. Le vendeur doit confirmer votre demande. L’heure demandée ne garantit pas une place. La demande doit être à plus de deux heures et dans les 90 jours.',invalid:'Cette heure locale n’existe pas. Choisissez une autre heure.',ambiguous:'Cette heure locale se répète. Choisissez son occurrence.',first:'Première occurrence',second:'Deuxième occurrence'},
+  ln:{time:'Ngonga olingi',guidance:'Pona mokolo mpe ngonga ya esika ya kolia. Motɛki asengeli kondima bosengi; ngonga oyo ezali elaka ya esika te. Senga nsima ya ngonga mibale mpe kati ya mikolo 90.',invalid:'Ngonga oyo ezali te. Pona ngonga mosusu.',ambiguous:'Ngonga oyo ezongi mbala mibale. Pona moko.',first:'Mbala ya liboso',second:'Mbala ya mibale'},
+  sw:{time:'Saa unayoomba',guidance:'Chagua tarehe na saa za mgahawa. Muuzaji lazima athibitishe ombi lako. Saa unayoomba si hakikisho la nafasi. Omba zaidi ya saa mbili kabla na ndani ya siku 90.',invalid:'Saa hii ya eneo haipo. Chagua saa nyingine.',ambiguous:'Saa hii ya eneo hutokea mara mbili. Chagua tukio.',first:'Tukio la kwanza',second:'Tukio la pili'},
+} as const;

diff --git a/tests/shida-calendar.test.ts b/tests/shida-calendar.test.ts
@@ -1,0 +1,20 @@
+import {describe,it,expect} from 'vitest';
+import {apartmentVisitEvent,localDate,monthBounds,restaurantEvent,servicesEvent,shiftMonth} from '../app/lib/shida-calendar';
+
+describe('shared calendar presentation',()=>{
+  it('navigates month boundaries and preserves local days around DST',()=>{
+    expect(monthBounds('2026-10')).toEqual({from:'2026-10-01',to:'2026-11-01'});
+    expect(shiftMonth('2026-12',1)).toBe('2027-01');
+    expect(localDate('2026-10-24T22:30:00Z','Europe/Stockholm')).toBe('2026-10-25');
+    expect(localDate('2026-10-25T02:30:00Z','Europe/Stockholm')).toBe('2026-10-25');
+    expect(localDate('2026-10-31T23:30:00Z','Europe/Stockholm')).toBe('2026-11-01');
+  });
+  it('marks seller decisions distinctly and keeps only opaque destinations',()=>{
+    const row={reservation_ref:'RRS_opaque',starts_at:'2026-10-25T02:30:00Z',timezone_name:'Europe/Stockholm',party_size:3,state:'pending'};
+    expect(restaurantEvent(row,'Awaiting seller response','Guests')).toMatchObject({marketplace:'restaurants',tone:'pending',destination:{kind:'detail',reference:'RRS_opaque'}});
+    expect(restaurantEvent({...row,state:'accepted'},'Accepted','Guests').tone).toBe('confirmed');
+    const projection={reference:'opaque',startsAt:'2026-10-25T02:30:00Z',timeZone:'Europe/Stockholm',title:'Visit',status:'Proposed',tone:'pending' as const};
+    expect(servicesEvent(projection).marketplace).toBe('services');
+    expect(apartmentVisitEvent(projection).marketplace).toBe('apartments');
+  });
+});

diff --git a/app/components/shida/shida-calendar-mobile.css b/app/components/shida/shida-calendar-mobile.css
@@ -1,0 +1,5 @@
+@media (max-width:600px){
+  .shida-cal-day{font-size:.85rem;overflow:hidden;word-break:normal;overflow-wrap:normal}
+  .shida-cal-day > span{white-space:nowrap;word-break:normal;overflow-wrap:normal}
+  .shida-cal-day small{white-space:nowrap}
+}
